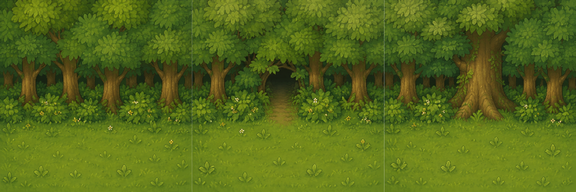
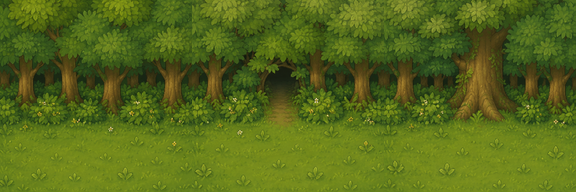
P2-09: artist-review tuning — 2% tile edge inset (kills grid seams), ford tucked under dam (148px)

diff --git a/scripts/lib/tiles.ts b/scripts/lib/tiles.ts
@@ -119,11 +119,14 @@ export async function processTileSheet(
       .raw()
       .toBuffer({ resolveWithObject: true });
     const m = whiteMargins({ data: new Uint8Array(cellRaw), width: ci.width, height: ci.height });
+    // Inset a further ~2% per edge: AI cells carry a faint edge vignette that
+    // otherwise shows up as grid seams when tiles are drawn side by side.
+    const inset = Math.round(Math.min(ci.width, ci.height) * 0.02);
     const inner = {
-      left: m.left,
-      top: m.top,
-      width: Math.max(1, ci.width - m.left - m.right),
-      height: Math.max(1, ci.height - m.top - m.bottom),
+      left: m.left + inset,
+      top: m.top + inset,
+      width: Math.max(1, ci.width - m.left - m.right - inset * 2),
+      height: Math.max(1, ci.height - m.top - m.bottom - inset * 2),
     };
     const out = await sharp(cellPng)
       .extract(inner)

diff --git a/src/game/scene-map.ts b/src/game/scene-map.ts
@@ -138,13 +138,14 @@ export function buildSceneLayout(world: WorldSize = { width: 960, height: 540 })
     }
   }
 
-  // Riverbed ford under the dam site — reads as the stream the dam blocks.
+  // Riverbed ford tucked under the dam sprite — grounds the dam in a wet
+  // stream bed without reading as a floating water panel (artist review 07-12).
   tiles.push({
     texture: 'tile_riverbed',
     frame: 1, // the variant with big foundation stones
     x: DAM_SITE.x,
-    y: DAM_SITE.y + 26,
-    size: 236,
+    y: DAM_SITE.y + 22,
+    size: 148,
   });
 
   // Forest wall along the top edge, leaving the dam span open. Frame 1 is the
